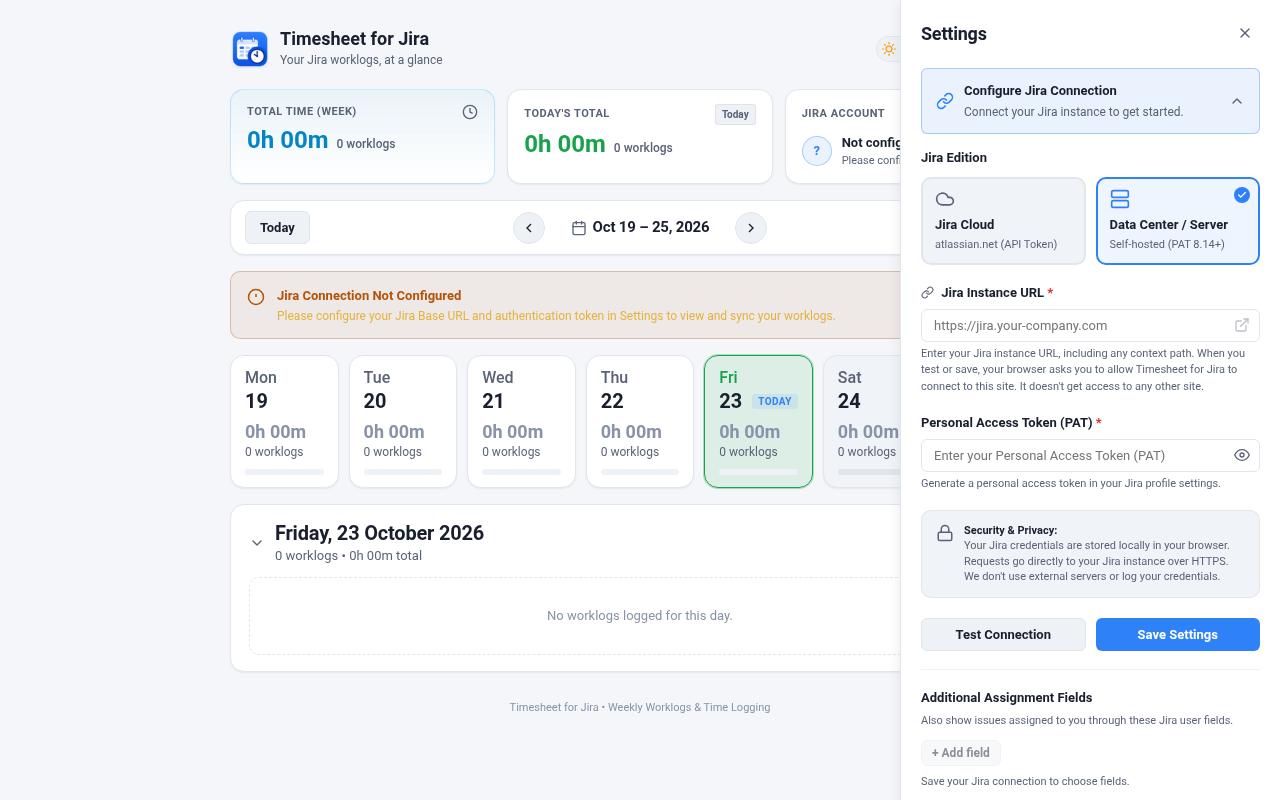
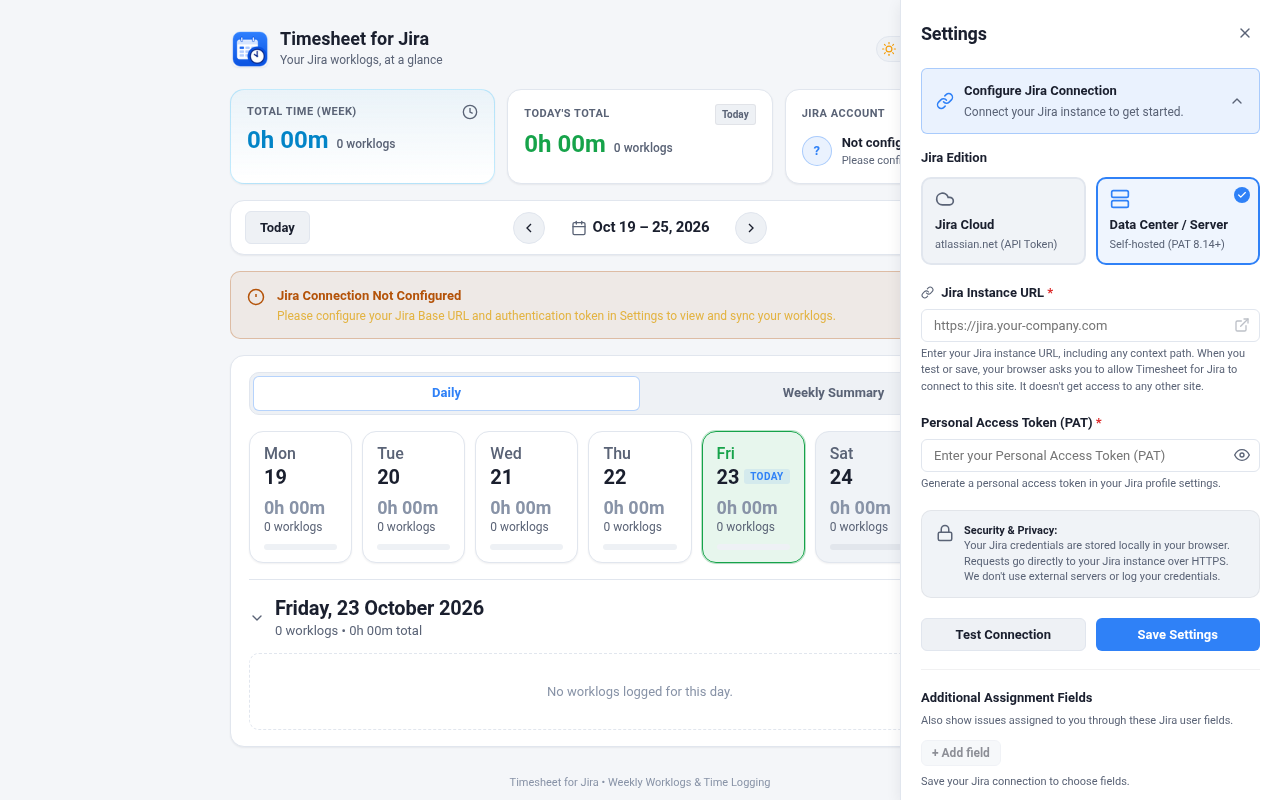
docs: capture the screenshots again with the Daily and Weekly Summary tabs
The screenshots and promo tiles predated the week's views: the Daily and
Weekly Summary tabs above the weekday cards, and the selected day's
Worklogs and Summary tabs.

- Every screenshot in docs/screenshots/ and the tiles' app-overview@2x.png
  are captured again from the current page.
- The small promo tile's screenshot now ends just below the view tabs.
  The tabs pushed the weekday cards down, so only a sliver of their tops
  showed at its bottom edge.

diff --git a/docs/store-assets/chrome/source/promo.html b/docs/store-assets/chrome/source/promo.html
@@ -122,16 +122,17 @@
 
   /* ---------------------------------------------------------------- Small 440 x 280 */
   /* Its own composition: name and a one-line headline above the most recognizable part of the
-     app, shown whole: the summary cards, the week bar, and all seven weekday cards. No feature
-     list, which would be unreadable at this size. */
+     app, shown whole: the summary cards, the week bar, the holiday banner, and the Daily and Weekly
+     Summary tabs. No feature list, which would be unreadable at this size. */
   .tile-small .blob-main { width: 360px; height: 360px; left: 220px; top: -150px; opacity: 0.7; }
   .tile-small .brand { position: absolute; left: 20px; top: 18px; gap: 12px; }
   .tile-small .brand img { width: 44px; height: 44px; }
   .tile-small .brand-name { font-size: 25px; }
   .tile-small .headline { position: absolute; left: 20px; top: 74px; font-size: 19px; letter-spacing: -0.02em; white-space: nowrap; }
   .tile-small .headline .accent { display: inline; }
-  /* The app's full width at 0.47 x its size, from the summary cards to the weekday cards */
-  .tile-small .shot { left: 20px; top: 106px; width: 400px; height: 156px; border-radius: 10px; }
+  /* The app's full width at 0.47 x its size, from the summary cards to the view tabs. It ends in
+     the space between the tabs and the weekday cards, so no sliver of a card shows. */
+  .tile-small .shot { left: 20px; top: 110px; width: 400px; height: 145px; border-radius: 10px; }
   .tile-small .shot img { width: 400px; transform: translateY(-38px); }
 </style>
 </head>
